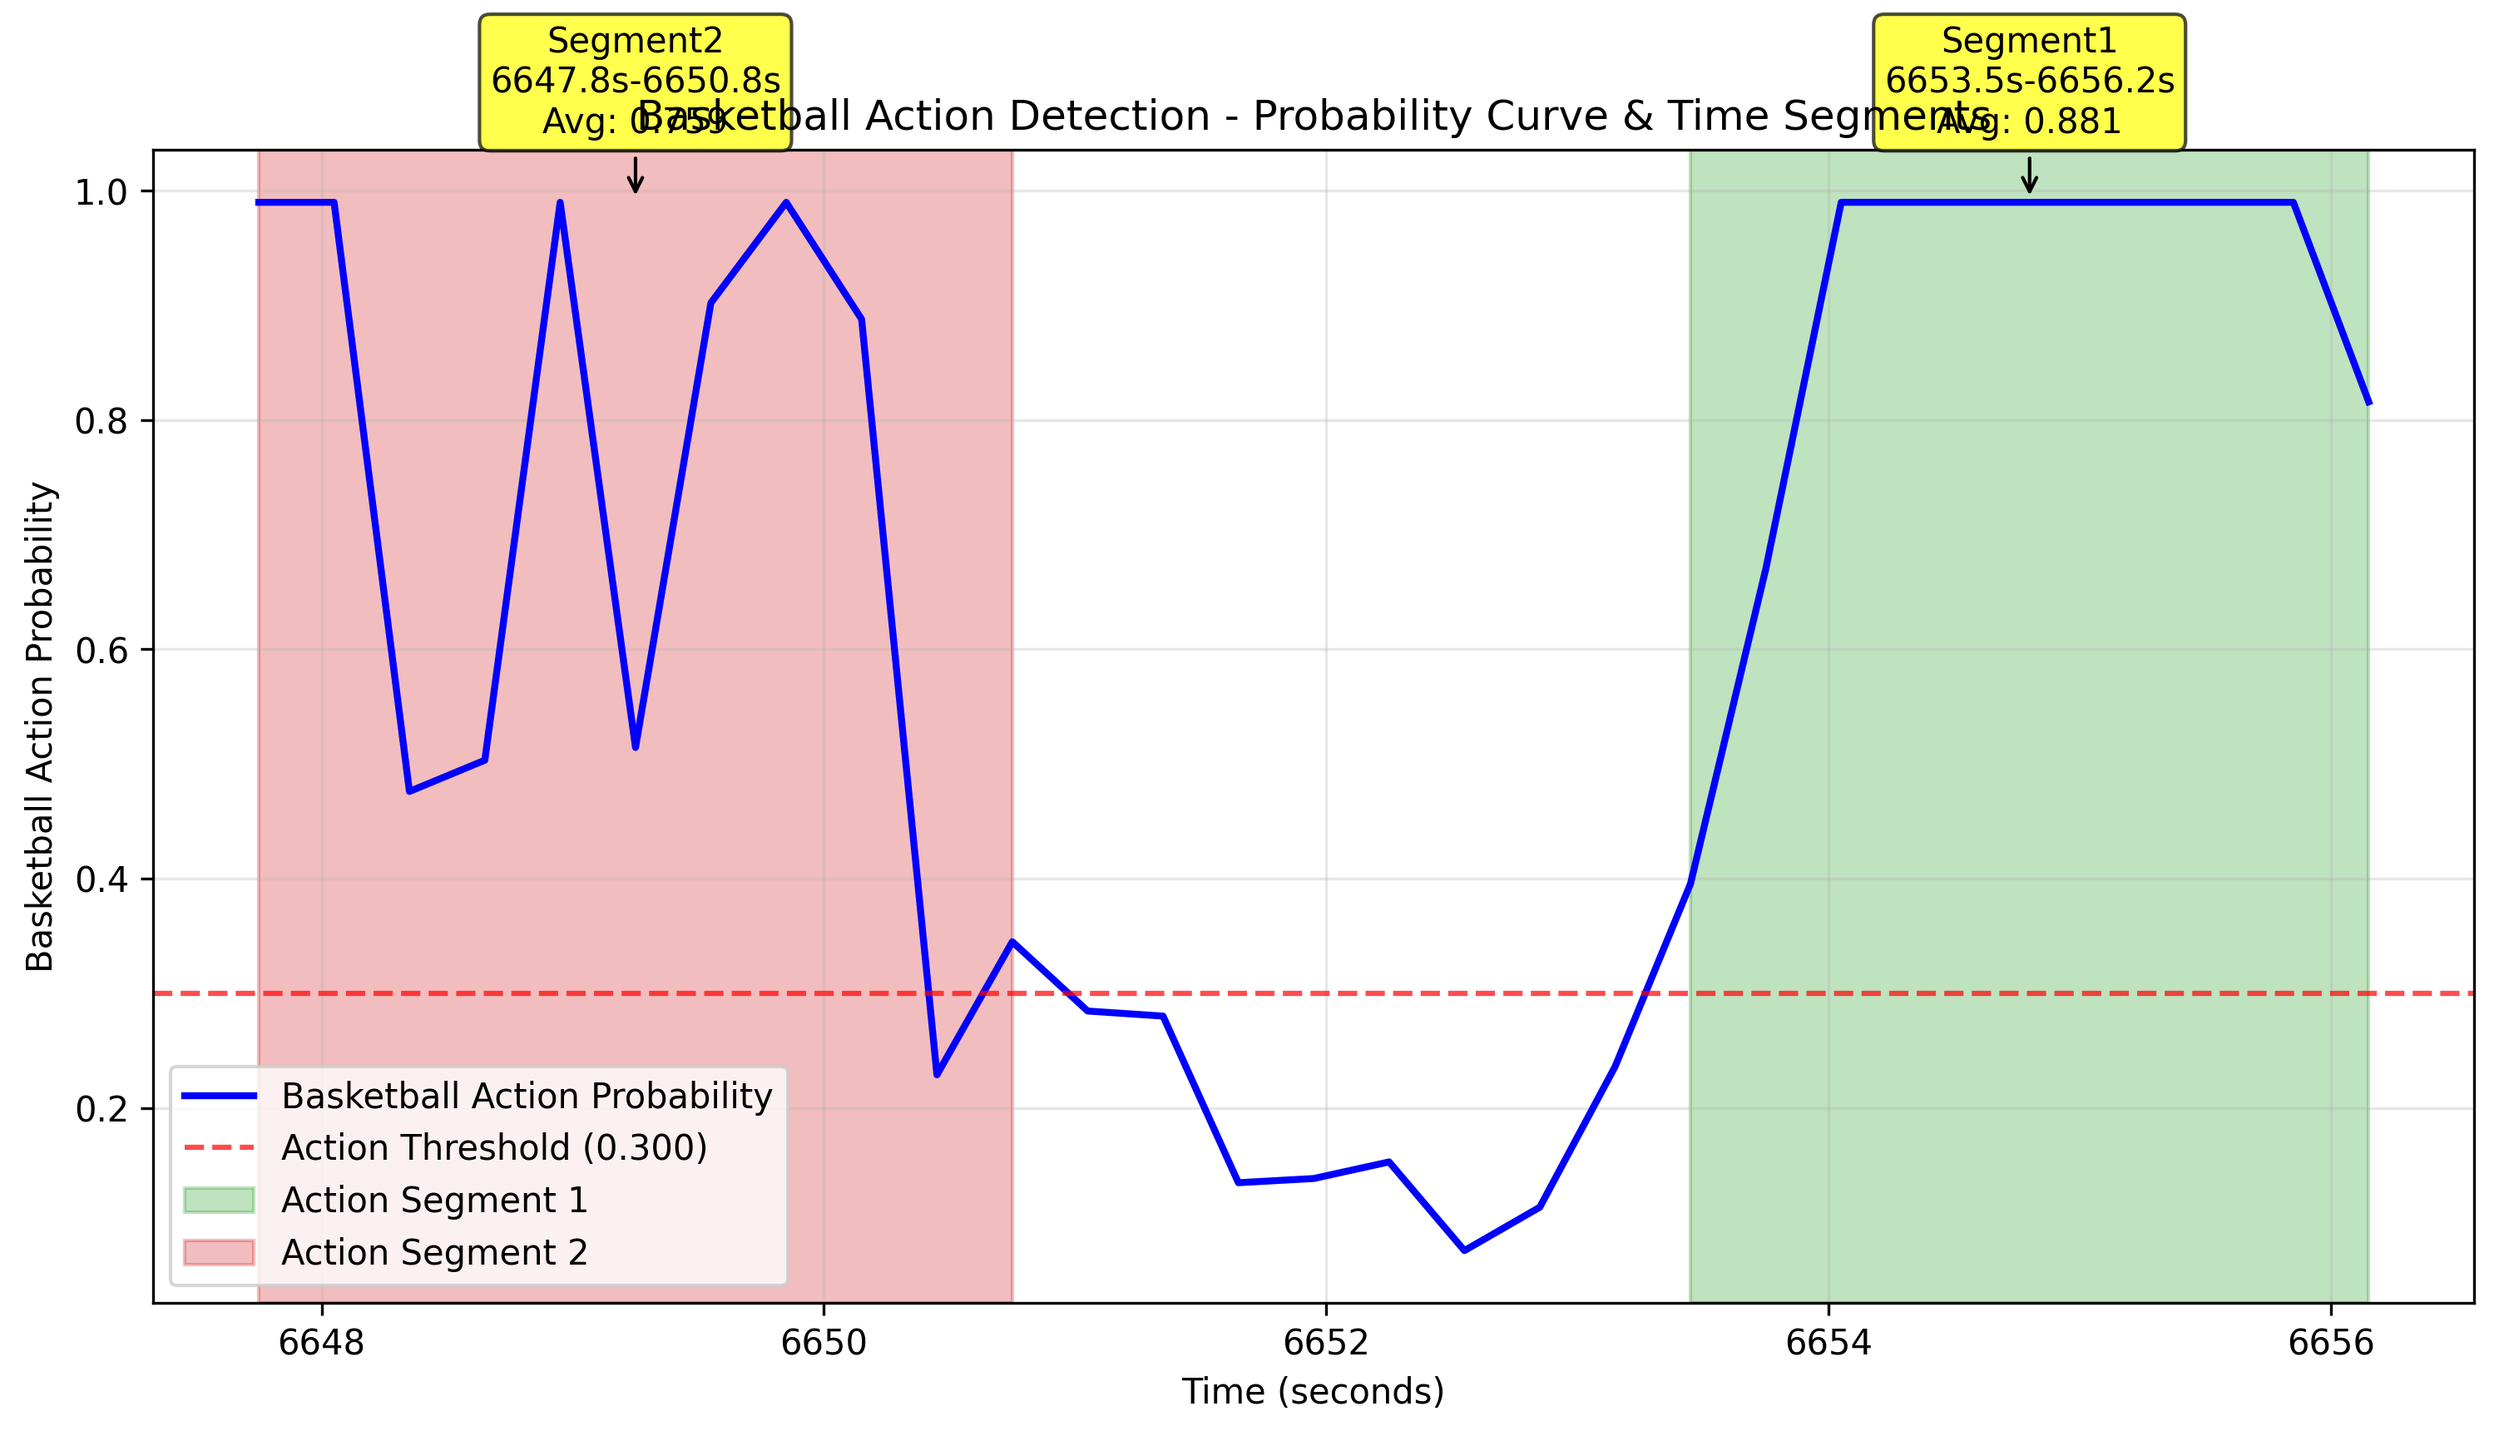
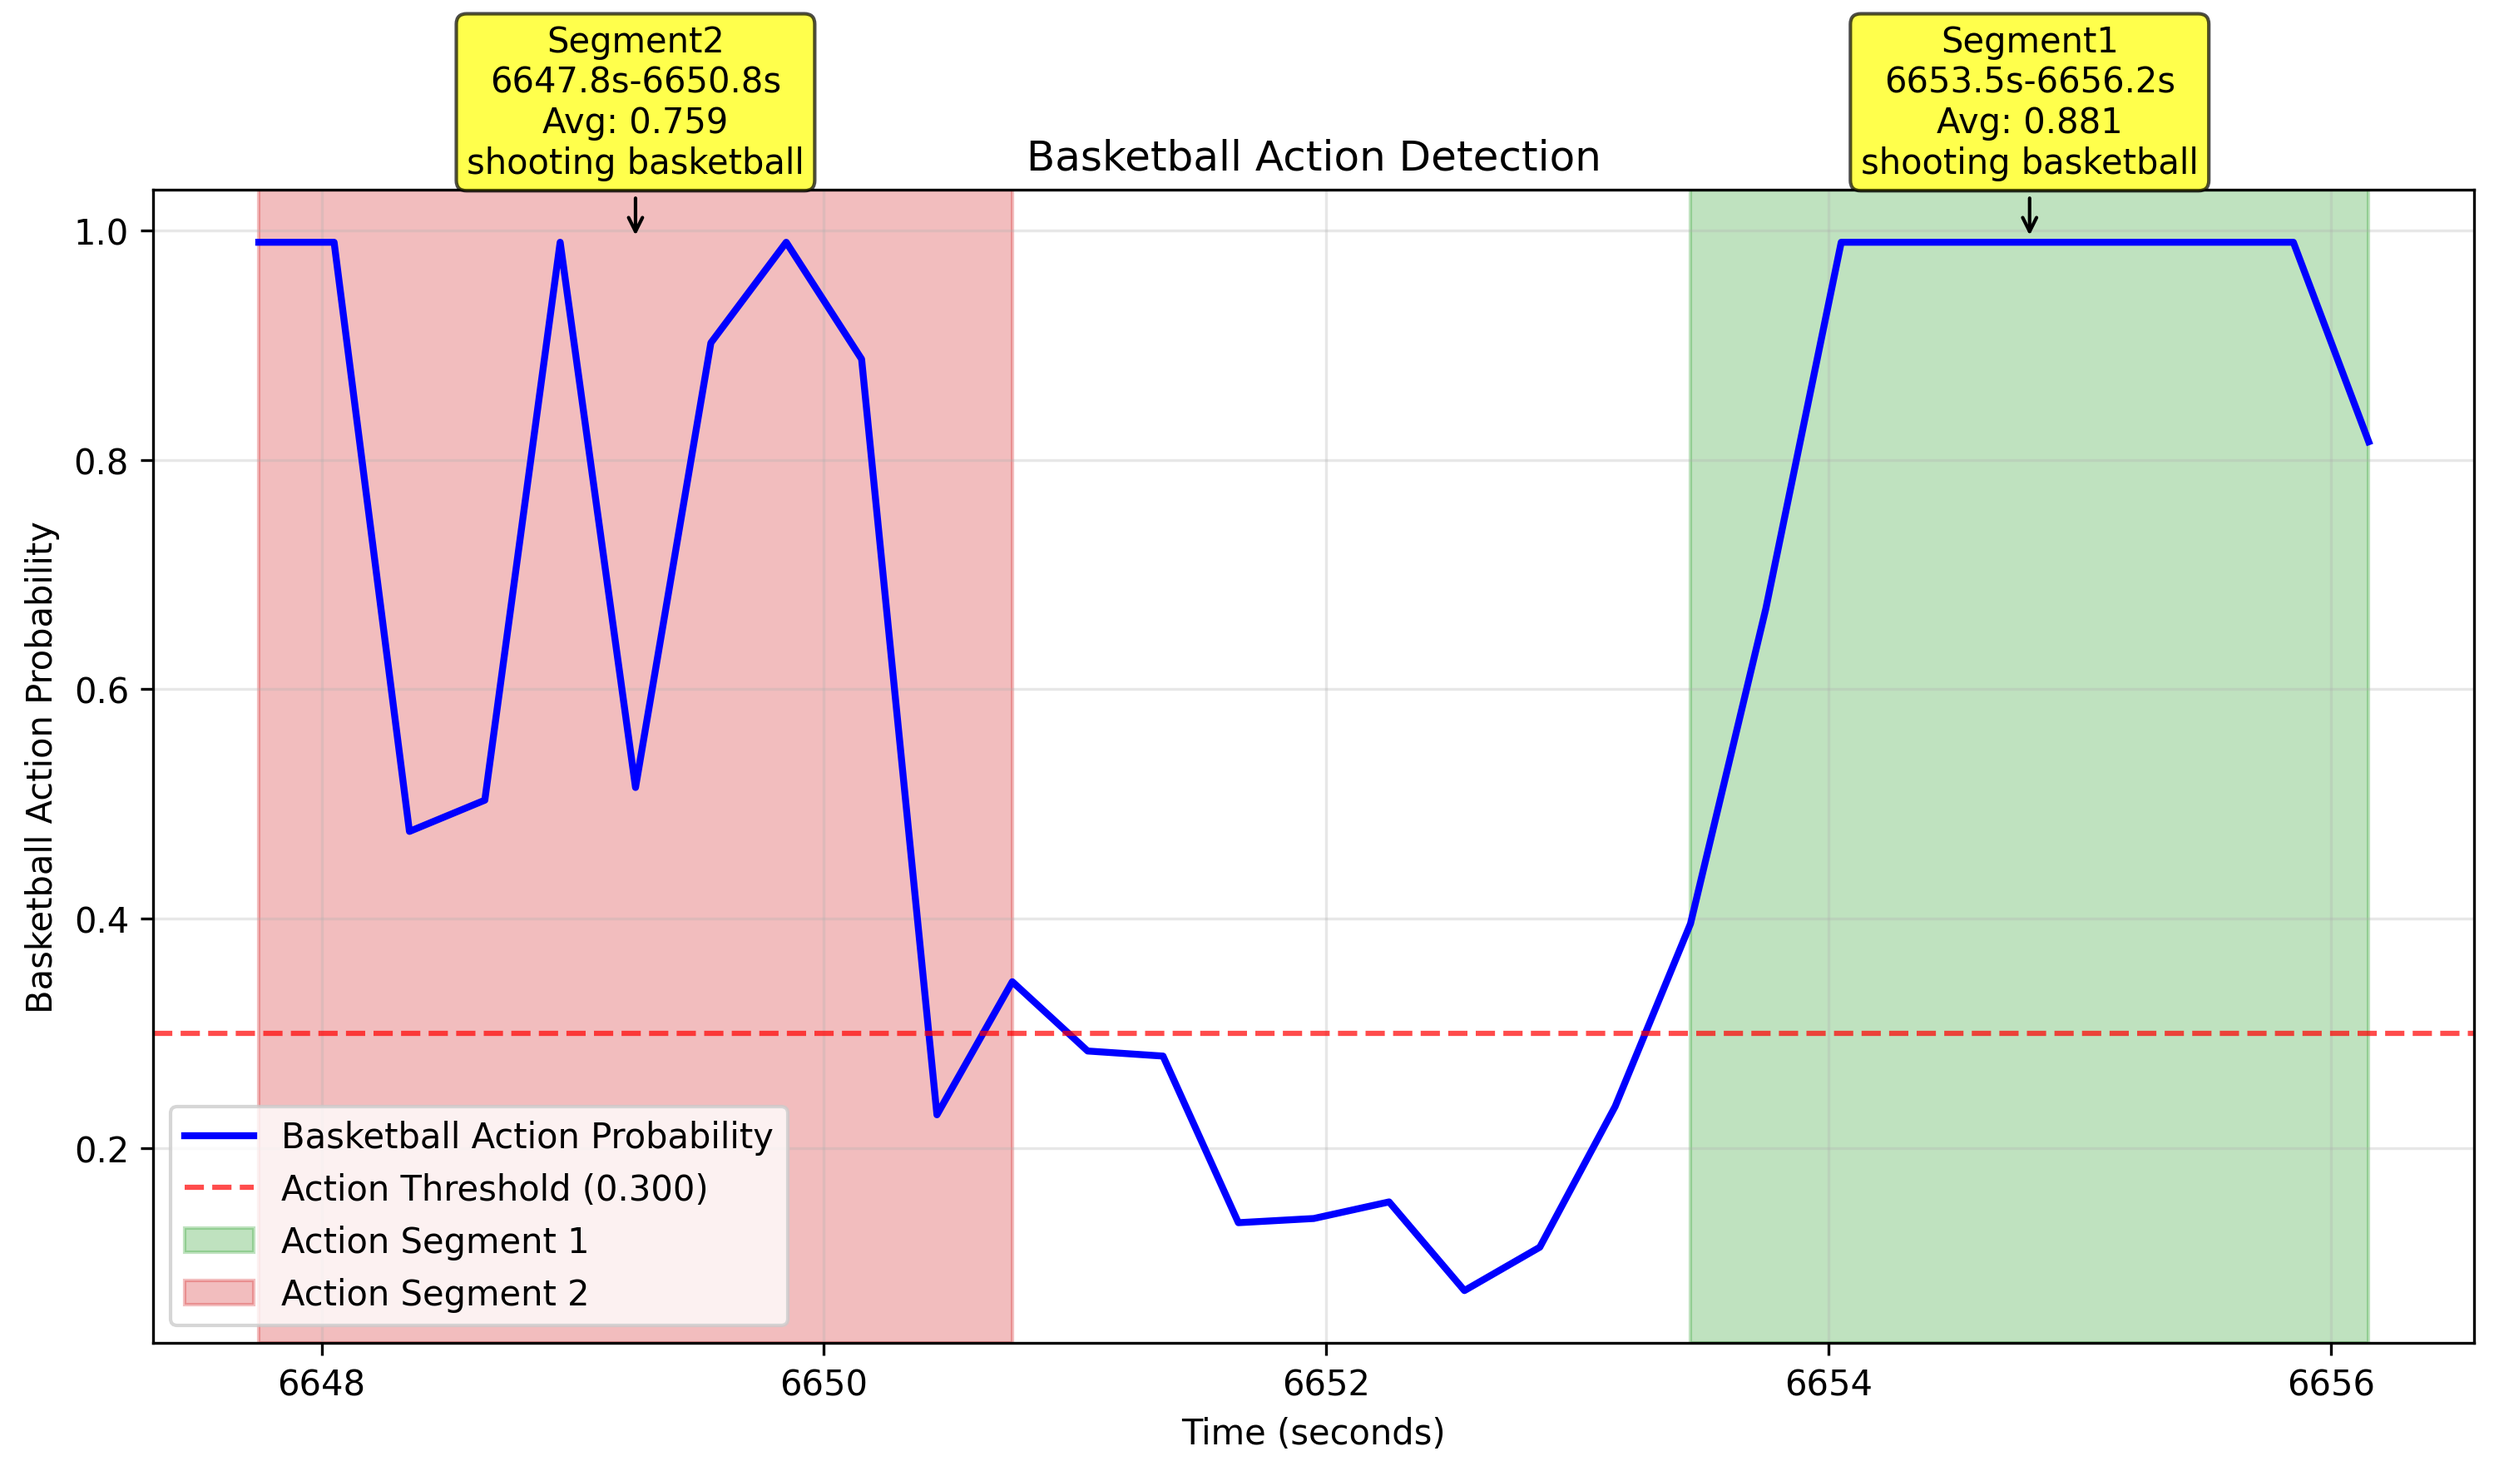
tsm

diff --git a/script/optional/tsm.py b/script/optional/tsm.py
@@ -143,13 +143,46 @@ class ActionDetector:
         self.kinetics400_basketball_labels = {
             99: "dribbling basketball",
             107: "dunking basketball", 
-            #220: "playing basketball",
+            220: "playing basketball",
             296: "shooting basketball",
             357: "throwing ball"
         }
         
+        # Variables for external research access
+        self.detected_segments = []  # Store detected segment timestamps
+        self.last_detection_result = None  # Store complete detection result
+        
         self._init_model()
     
+    def get_detected_timestamps(self):
+        """
+        Get detected segment timestamps for external research use
+        
+        Returns:
+            list: List of segment timestamps with format:
+                [
+                    {
+                        "segment_id": 1,
+                        "start_time": 6653.5,
+                        "end_time": 6656.2, 
+                        "duration": 2.7,
+                        "category": "shooting basketball",
+                        "probability": 0.881,
+                        "trigger_offset_start": -3.5,
+                        "trigger_offset_end": -0.8
+                    }
+                ]
+        """
+        return self.detected_segments
+    
+    def get_last_result(self):
+        """
+        Get complete last detection result
+        
+        Returns:
+            dict: Complete detection result data
+        """
+        return self.last_detection_result
     
     def _init_model(self):
         """Initialize complete TSM model (bypass transformers issues)"""
@@ -833,7 +866,7 @@ class ActionDetector:
         """
         Run complete basketball highlight detection pipeline
         """
-        start_time = time.time()
+        process_start_time = time.time()
         
         print("=" * 60)
         print("Starting basketball action segment detection")
@@ -886,7 +919,9 @@ class ActionDetector:
             try:
                 # Extract video clip for this segment (or skip if save_clips=False)
                 clip_path = self.extract_highlight_clip(segment)
-                extracted_clips.append({
+                
+                # Create segment data with all timestamps for external use
+                segment_data = {
                     "segment_id": i + 1,
                     "action_start_time": start_time,
                     "action_end_time": end_time,
@@ -894,8 +929,24 @@ class ActionDetector:
                     "average_probability": avg_prob,
                     "detected_category": category,
                     "clip_path": clip_path,
-                    "clip_saved": self.save_clips
-                })
+                    "clip_saved": self.save_clips,
+                    "relative_to_trigger": {
+                        "start_offset": start_time - self.trigger_time,
+                        "end_offset": end_time - self.trigger_time
+                    }
+                }
+                
+                extracted_clips.append(segment_data)
+                
+                # Store segment timestamps for external research access
+                timestamp_info = {
+                    "segment_id": i + 1,
+                    "start_time": start_time,
+                    "end_time": end_time,
+                    "duration": end_time - start_time,
+                    "category": category,
+                    "probability": avg_prob
+                }
                 
                 if self.save_clips:
                     print(f"   Clip saved: {clip_path}")
@@ -907,24 +958,65 @@ class ActionDetector:
                 continue
         
         # Calculate total processing time
-        total_time = time.time() - start_time
+        total_time = time.time() - process_start_time
+        
+        # Prepare result data with timestamps for external use
+        result_data = {
+            "detection_metadata": {
+                "video_path": self.video_path,
+                "trigger_time": self.trigger_time,
+                "detection_start": detection_start,
+                "detection_end": detection_end,
+                "detection_duration": self.detection_duration,
+                "processing_time": round(total_time, 2),
+                "timestamp": time.strftime("%Y-%m-%d %H:%M:%S"),
+                "save_clips_enabled": self.save_clips
+            },
+            "detection_results": {
+                "total_segments_detected": len(action_segments),
+                "successfully_processed": len(extracted_clips),
+                "clips_saved": len([c for c in extracted_clips if c['clip_saved']]) if extracted_clips else 0
+            },
+            "action_segments": [],
+            "segment_timestamps": []  # For external research use
+        }
         
         # Output final results for all segments
         print("\n" + "=" * 60)
         print("Basketball Action Detection Results Summary")
         print("=" * 60)
+        print(f"Video path: {self.video_path}")
+        print(f"Trigger time: {self.trigger_time}s")
         print(f"Detection time range: {detection_start:.1f}s - {detection_end:.1f}s")
         print(f"Total segments detected: {len(action_segments)}")
         print(f"Successfully extracted clips: {len(extracted_clips)}")
         print(f"Total processing time: {total_time:.2f} seconds")
         
         if extracted_clips:
+            # Fill result data
+            result_data["action_segments"] = extracted_clips
+            result_data["segment_timestamps"] = [
+                {
+                    "segment_id": clip["segment_id"],
+                    "start_time": clip["action_start_time"],
+                    "end_time": clip["action_end_time"],
+                    "duration": clip["action_duration"],
+                    "category": clip["detected_category"],
+                    "probability": clip["average_probability"],
+                    "trigger_offset_start": clip["relative_to_trigger"]["start_offset"],
+                    "trigger_offset_end": clip["relative_to_trigger"]["end_offset"]
+                }
+                for clip in extracted_clips
+            ]
+            
             print("\nAll detected action segments:")
             for clip_info in extracted_clips:
                 print(f"  Segment {clip_info['segment_id']}:")
+                print(f"    Time: {clip_info['action_start_time']:.1f}s - {clip_info['action_end_time']:.1f}s")
                 print(f"    Duration: {clip_info['action_duration']:.1f}s")
                 print(f"    Probability: {clip_info['average_probability']:.3f}")
                 print(f"    Category: {clip_info['detected_category']}")
+                print(f"    Offset from trigger: {clip_info['relative_to_trigger']['start_offset']:+.1f}s to {clip_info['relative_to_trigger']['end_offset']:+.1f}s")
                 
                 if clip_info['clip_saved']:
                     print(f"    File: {clip_info['clip_path']}")
@@ -933,6 +1025,7 @@ class ActionDetector:
             
             print(f"\nDetection Summary:")
             print(f"    Video analyzed: {self.video_path}")
+            print(f"    Trigger time: {self.trigger_time}s") 
             print(f"    Time range: {detection_start:.1f}s - {detection_end:.1f}s")
             print(f"    Segments detected: {len(action_segments)}")
             print(f"    Clips processed: {len(extracted_clips)}")
@@ -942,15 +1035,47 @@ class ActionDetector:
             else:
                 print(f"    Mode: Testing (clips not saved)")
             
-            return {
+            # Generate JSON output file
+            json_filename = f"detection_results_{int(time.time())}.json"
+            try:
+                with open(json_filename, 'w', encoding='utf-8') as f:
+                    json.dump(result_data, f, indent=2, ensure_ascii=False)
+                print(f"\nResults saved to: {json_filename}")
+            except Exception as e:
+                print(f"WARNING: Failed to save JSON file: {e}")
+            
+            # Store timestamps as class variables for external access
+            self.detected_segments = result_data["segment_timestamps"]
+            self.last_detection_result = result_data
+            
+            # Return comprehensive result
+            return_result = {
                 "detection_range": {"start": detection_start, "end": detection_end},
+                "trigger_time": self.trigger_time,
                 "total_segments_detected": len(action_segments),
                 "successfully_processed": len(extracted_clips),
                 "clips_saved": self.save_clips,
                 "processing_time": total_time,
-                "segments": extracted_clips
+                "segments": extracted_clips,
+                "segment_timestamps": result_data["segment_timestamps"],
+                "json_file": json_filename,
+                "metadata": result_data["detection_metadata"]
             }
+            
+            return return_result
         else:
+            result_data["action_segments"] = []
+            result_data["segment_timestamps"] = []
+            
+            # Still save empty result to JSON
+            json_filename = f"detection_results_empty_{int(time.time())}.json"
+            try:
+                with open(json_filename, 'w', encoding='utf-8') as f:
+                    json.dump(result_data, f, indent=2, ensure_ascii=False)
+                print(f"\nEmpty results saved to: {json_filename}")
+            except Exception as e:
+                print(f"WARNING: Failed to save JSON file: {e}")
+                
             print("ERROR: No segments were successfully processed")
             return None
 
@@ -963,6 +1088,14 @@ def main(video_path=None, trigger_time=None, detection_duration=None, save_clips
         trigger_time: Score board change time point (seconds)
         detection_duration: Backward detection duration from trigger_time (seconds)  
         save_clips: Whether to save video clips (True=save, False=skip for faster testing)
+    
+    Returns:
+        dict or None: Complete detection results including:
+            - trigger_time: the trigger time point
+            - segment_timestamps: list of timestamps for external research
+            - json_file: path to saved JSON results file
+            - processing_time: total processing time
+            Also automatically saves results to JSON file.
     """
     try:
         # Create detector instance with custom parameters
